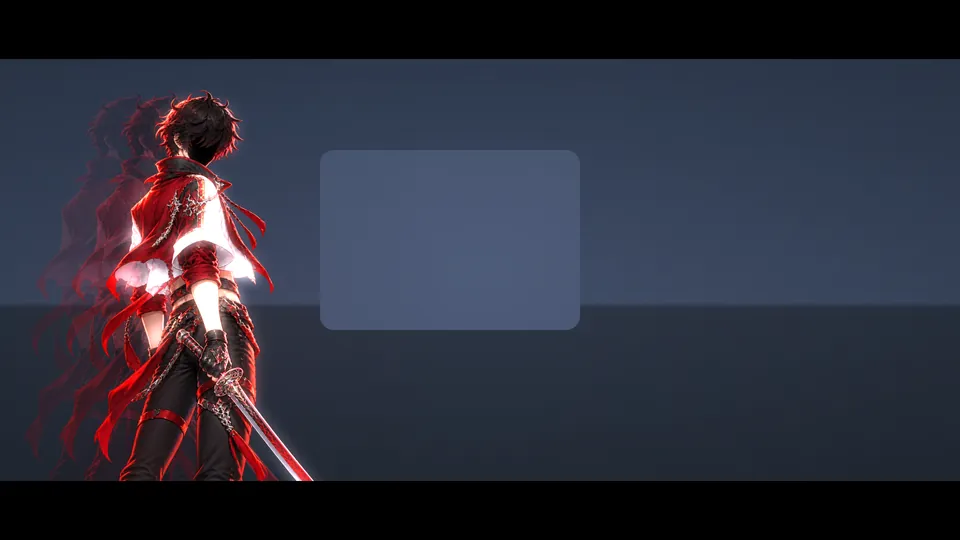
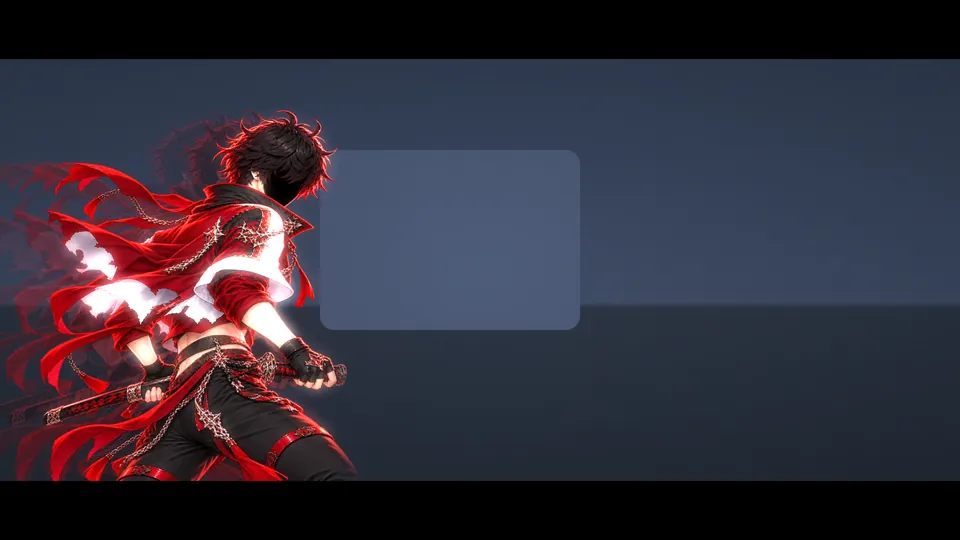
docs: fix the entry animation 30 tier's cut-in, level label and zanshin
Slide the sheathed iaido stance in for the cut-in instead of the drawn-sword
hero, label the tier LV.30, and add the zanshin flick so the blade swings down
from the raised follow-through into the closing stance. Record the lessons in
WORKFLOW.md: re-run the checklist on finished tiers, reuse another tier's fix,
check later effects against the name, and merge page-saved canvas edits.

Changed region(s): [[0.0, 0.1778, 0.375, 0.8889]]

diff --git a/docs/design/entry-animation/boards/EV1-EntrySlice.dc.html b/docs/design/entry-animation/boards/EV1-EntrySlice.dc.html
@@ -2,7 +2,7 @@
 <html lang="zh-CN">
 <head>
 <meta charset="utf-8">
-<title>EV1 进场动画样片 一般人 60 档</title>
+<title>EV1 进场动画 一般人 30 档 一闪</title>
 <script src="./support.js"></script>
 <script src="/_blob/017bad25925e8b86b270eb3a65ed7fff"></script>
 <script src="/_blob/4e96fe4a1953a4100f9922f45ab6641a"></script>
@@ -152,7 +152,7 @@ class Component extends DCLogic {
     const nameMask = new P.Graphics(); nameG.addChild(nameMask); nameT.mask = nameMask;
     const rule = new P.Graphics(); nameG.addChild(rule);
     const tag = new P.Text({ text: '粉丝团', style: { fontFamily: 'Noto Serif SC', fontWeight: '900', fontSize: 30, fill: 0xffffff, letterSpacing: 6 } });
-    const lv = new P.Text({ text: 'LV.60', style: { fontFamily: 'Barlow Condensed', fontWeight: '500', fontSize: 40, fill: 0xff5a68, letterSpacing: 6 } });
+    const lv = new P.Text({ text: 'LV.30', style: { fontFamily: 'Barlow Condensed', fontWeight: '500', fontSize: 40, fill: 0xff5a68, letterSpacing: 6 } });
     tag.position.set(34, -142); lv.position.set(150, -150); nameG.addChild(tag, lv);
     // Entry caption: says who is coming in from the cut-in, until the strike sweeps it away.
     const cap = new P.Container(); cap.position.set(600, 900); ui.addChild(cap);
@@ -160,7 +160,7 @@ class Component extends DCLogic {
     const capName = new P.Text({ text: '柚子不酸', style: { fontFamily: 'Noto Serif SC', fontWeight: '900', fontSize: 50, fill: 0xffffff, letterSpacing: 12 } });
     capName.anchor.set(0, 1); capName.position.set(30, -10); cap.addChild(capName);
     const capLv = new P.Text({ text: '粉丝团', style: { fontFamily: 'Noto Serif SC', fontWeight: '900', fontSize: 22, fill: 0xffffff, letterSpacing: 4 } });
-    const capLvN = new P.Text({ text: 'LV.60', style: { fontFamily: 'Barlow Condensed', fontWeight: '500', fontSize: 28, fill: 0xff5a68, letterSpacing: 4 } });
+    const capLvN = new P.Text({ text: 'LV.30', style: { fontFamily: 'Barlow Condensed', fontWeight: '500', fontSize: 28, fill: 0xff5a68, letterSpacing: 4 } });
     capLv.position.set(32, 12); capLvN.position.set(112, 6); cap.addChild(capLv, capLvN);
     const capMask = new P.Graphics(); cap.addChild(capMask); capName.mask = capMask;
 
@@ -179,8 +179,11 @@ class Component extends DCLogic {
     const zoom = new F.ZoomBlurFilter({ strength: 0, center: { x: H[0], y: H[1] }, innerRadius: 60 });
     const rgb = new F.RGBSplitFilter({ red: { x: 0, y: 0 }, green: { x: 0, y: 0 }, blue: { x: 0, y: 0 } });
 
+    // The zanshin flick: from the follow-through's raised tip down close to the body (left of the name) into the low
+    // blade of the closing stance.
+    const flick = pathOf(spline([H, [1100, 500], [880, 820], placed(4, 420, [780, 1120])]));
     const onScreen = p => p[0] > -60 && p[0] < 1980 && p[1] > -60 && p[1] < 1140;
-    this.S = { app, canvas, world, ui, dim, red, halves, n, tangent, H, cutLine, slash, seamPath: pathOf(Array.from({ length: 1001 }, (_, i) => [cutLine[0][0] + (cutLine[1][0] - cutLine[0][0]) * i / 1000, cutLine[0][1] + (cutLine[1][1] - cutLine[0][1]) * i / 1000]).filter(onScreen)), seamC, seamTex, rim, poses, fit, ghosts, hero, fx, fxTex, nameG, cap, capRule, capName, capLv, capLvN, capMask, nameGhosts, nameT, nameMask, rule, tag, lv, imp, impBg, impLines, silB, silW, flash, bars, bloom, shock, zoom, rgb };
+    this.S = { app, canvas, world, ui, dim, red, halves, n, tangent, H, cutLine, slash, flick, seamPath: pathOf(Array.from({ length: 1001 }, (_, i) => [cutLine[0][0] + (cutLine[1][0] - cutLine[0][0]) * i / 1000, cutLine[0][1] + (cutLine[1][1] - cutLine[0][1]) * i / 1000]).filter(onScreen)), seamC, seamTex, rim, poses, fit, ghosts, hero, fx, fxTex, nameG, cap, capRule, capName, capLv, capLvN, capMask, nameGhosts, nameT, nameMask, rule, tag, lv, imp, impBg, impLines, silB, silW, flash, bars, bloom, shock, zoom, rgb };
     app.ticker.add(() => this.frame());
   }
 
@@ -218,12 +221,12 @@ class Component extends DCLogic {
     S.red.scale.set(1 + 0.03 * k(SPLIT, 5000, l)); S.red.position.set(960 + cut.drift, 540);
     this.drawSeam(l, k, out, cut);
 
-    // Hero poses: cut-in, charge, smear, follow-through, zanshin.
-    const pose = l < 520 ? 0 : l < 1950 ? 1 : l < 2034 ? 2 : l < 2700 ? 3 : 4;
+    // Hero poses: the iaido stance (it slides in for the cut-in, sword still sheathed, and holds through the charge),
+    // the draw smear, the follow-through, zanshin.
+    const pose = l < 1950 ? 1 : l < 2034 ? 2 : l < 2700 ? 3 : 4;
     const [ph, px] = S.fit[pose], tx = S.poses[pose];
     let x = 420, y = 1080;
-    if (pose === 0) x += -980 * (1 - quint(k(250, 520, l)));
-    if (pose === 1) { y += 20 * (1 - out(k(520, 660, l))); x += 16 * k(660, 1950, on2(l)); }
+    if (pose === 1) { x += -980 * (1 - quint(k(250, 520, l))) + 16 * k(660, 1950, on2(l)); y += 20 * (1 - out(k(520, 660, l))); }
     if (pose === 2) x += 30;
     if (pose === 3) x += 48 - 10 * out(k(2034, 2500, l));
     if (pose === 4) x += 20 * k(2700, 6000, on2(l));
@@ -235,7 +238,7 @@ class Component extends DCLogic {
     S.ghosts.forEach((g, i) => {
       const on = (l >= 250 && l < 520) || (l >= 1950 && l < 2120);
       g.texture = tx; g.height = ph; g.scale.x = g.scale.y;
-      g.position.set(S.hero.x - (i + 1) * (pose === 0 ? 70 : 34), y);
+      g.position.set(S.hero.x - (i + 1) * (l < 520 ? 70 : 34), y);
       g.alpha = on ? (i ? 0.16 : 0.32) : 0; g.tint = 0xff6070;
     });
     S.rim.position.set(420, 640);
@@ -325,12 +328,12 @@ class Component extends DCLogic {
     g.globalCompositeOperation = 'lighter';
     const rnd = (i, s) => { const x = Math.sin(i * 127.1 + s * 311.7) * 43758.5453; return x - Math.floor(x); };
     const Q = u => S.slash.at(u).slice(0, 2), D = u => S.slash.at(u).slice(2, 4);
-    const band = (u0, u1, w, inner, rgb, alpha) => {
+    const band = (u0, u1, w, inner, rgb, alpha, P = S.slash) => {
       if (u1 - u0 < 0.002) return;
       const N = 70;
       let prev = null;
       for (let i = 0; i <= N; i++) {
-        const f = i / N, u = u0 + (u1 - u0) * f, p = Q(u), nm = D(u);
+        const f = i / N, u = u0 + (u1 - u0) * f, r = P.at(u), p = r, nm = [r[2], r[3]];
         const ww = w * Math.pow(Math.sin(Math.PI * Math.min(1, f * 1.08)), 0.5) * (0.25 + 0.75 * f);
         const o = [p[0] - nm[0] * ww, p[1] - nm[1] * ww], q = [p[0] + nm[0] * ww * inner, p[1] + nm[1] * ww * inner];
         if (prev) {
@@ -388,7 +391,15 @@ class Component extends DCLogic {
         }
       }
     }
-    // The zanshin flick: a short glint on the blade right before the sky gives way.
+    // The zanshin flick: the blade swings down from the raised follow-through into the closing stance, leaving a thin
+    // crescent that fades at once.
+    if (l >= 2700 && l < 2960) {
+      const head = out(k(2700, 2760, l)), tail = out(k(2720, 2860, l)), a = 0.7 * (1 - k(2780, 2960, l));
+      band(tail, head, 26 * 2.6, 0.25, '255,30,60', 0.16 * a, S.flick);
+      band(tail, head, 26, 0.08, '255,58,80', 0.8 * a, S.flick);
+      band(tail, head, 26 * 0.34, 0.03, '255,240,240', a, S.flick);
+    }
+    // Then a short glint on the blade right before the sky gives way.
     const fl = k(2930, 3130, l);
     if (fl > 0 && fl < 1) {
       const a = Math.sin(fl * Math.PI), [gx, gy] = [612, 922];

diff --git a/docs/design/entry-animation/README.md b/docs/design/entry-animation/README.md
@@ -4,7 +4,7 @@
 
 画板画在设计稿画布上（画布是私有的，实现时以本目录为准）。规格：[#267 进场动画](https://github.com/cyaoc/aether/issues/267)、[#268 隐藏款](https://github.com/cyaoc/aether/issues/268)。已定稿：
 
-- **EV1 一般人 30 档「一闪」**（2026-10-25 做出，10-26 定为 30 档基准，同日换成新的拔刀拖影、直线刀痕）。
+- **EV1 一般人 30 档「一闪」**（2026-10-25 做出，10-26 定为 30 档基准，同日换成新的拔刀拖影、直线刀痕，切入改成居合架势、加上残心甩刀）。
 - **EV2 一般人 40 档「三连斩」**（2026-10-26，按动作链做：横、斜、回身三刀，三条直线刀痕）。
 
 50、60 档，舰长、提督、总督以及隐藏款都还没出画板。
@@ -31,7 +31,7 @@ node docs/design/entry-animation/tools/server.mjs 8795
 
 | 文件 | 内容 | 用在 |
 |---|---|---|
-| `hero-1` | 一般人亮相（刀已出鞘） | EV1 切入 |
+| `hero-1` | 一般人亮相（刀已出鞘） | 各姿势生图的参考，画板里不用 |
 | `hero-2/3/4` | 舰长、提督、总督亮相 | 待用 |
 | `gold-sword` | 总督身后的金剑 | 待用 |
 | `pose-2` | 居合架势（刀在鞘里，按刀） | EV1、EV2 蓄力 |
@@ -57,7 +57,7 @@ node docs/design/entry-animation/tools/server.mjs 8795
 | 毫秒 | 拍 | 画面 |
 |---|---|---|
 | 0–300 | 压暗 | 上下黑边合进来（高 118），直播画面压暗（径向暗角） |
-| 250–520 | 切入 | 亮相姿势带两道红色残影从左边冲进来 |
+| 250–520 | 切入 | 居合架势（刀在鞘里）带两道红色残影从左边冲进来，落地压低 |
 | 420–2060 | 登场字幕 | 主角脚边 (600, 900) 拉出细线和红色小方块，昵称（50 px）从左往右显出，下面是「粉丝团 LV.xx」；出招时被刀风扫掉 |
 | 520–1950 | 蓄力 | 居合架势；月夜 600–1250 淡入；光点往刀柄 (660, 735) 收；镜头 1 → 1.07 推近、轻微倾斜；1780–1940 刀柄十字闪光 |
 | 1950–2034 | 出招 | 拔刀拖影两帧，刀光沿画出的拖影扫过；镜头猛推到 1.12，小震 |
@@ -67,7 +67,7 @@ node docs/design/entry-animation/tools/server.mjs 8795
 | 2080–2200 | 顿帧 | 画面停住，刀光停在最亮的样子 |
 | 2200 起 | 余波 | 冲击波、放射模糊、色散；大震屏；火花沿刀光两侧甩出；刀光碎成丝。天空保持完整，一道直线刀痕悬在空中发光（在主角身后） |
 | 2380–2950 | 亮名 | 昵称从左往右切出来，带两层红色残影；细线和红色小方块拉出；「粉丝团 LV.xx」淡入 |
-| 2700 起 | 残心 | 收刀站姿；余烬飘起；镜头缓缓推到 1.025；2930–3130 刀身一闪（甩刀） |
+| 2700 起 | 残心 | 刀从右上方甩下来，贴着身体留一小段细刀光（2700–2960，从昵称左边经过），落到收刀站姿；余烬飘起；镜头缓缓推到 1.025；2930–3130 刀身一闪 |
 | 3000–3950 | 斩铁 | 天空沿直线刀痕裂开：有月亮的那块顺着切面往上滑走 250、抬起 16、转 0.035 弧度，另一块反向移 80；切口各带一道发光的边，余烬从两边剥落；3300–3950 两块化开 |
 | 3000–5000 | 里世界 | 后面是同一片天空的血月版本，3950 完整显现，停一拍，4400–5000 退回直播画面；期间慢慢放大 3% |
 | 6180–6600 | 收 | 主角、昵称、暗角淡出，黑边退开 |
@@ -76,8 +76,7 @@ node docs/design/entry-animation/tools/server.mjs 8795
 
 | 姿势 | 显示高度 | 躯干在图宽的位置 | x |
 |---|---|---|---|
-| hero-1 亮相 | 900 | 0.45 | 420 |
-| pose-2 居合架势 | 880 | 0.52 | 420，慢慢右移 16 |
+| pose-2 居合架势 | 880 | 0.52 | 420：切入时从左边冲进来，之后慢慢右移 16 |
 | pose-13 拔刀拖影 | 820 | 0.3244 | 450 |
 | pose-14 拔刀收招 | 820 | 0.3358 | 468，慢慢回 10 |
 | pose-5 残心 | 900 | 0.42 | 420，慢慢右移 20 |

diff --git a/docs/design/entry-animation/WORKFLOW.md b/docs/design/entry-animation/WORKFLOW.md
@@ -44,6 +44,8 @@
 - 每拍按毫秒截图，拼成对照表自己先看。刀光像激光、刀光扫过月亮、昵称压线、多出来的亮边，这些都是这样在用户看到前改掉的。
 - 生图结果先在灰底上看透明通道。codex 常回报“背景没有透明”，以实际 alpha 为准。
 - 改了规则，同时写进 prompts.md、DESIGN 和记忆。
+- 做完一档或改了规则，用第六节的清单把已定稿的档也过一遍。2026-10-26 就是这样查出 30 档残心前刀从举起处直接跳到垂下（用户没提过），补上了甩刀的细刀光。
+- 另一档已经解决过的同类问题，直接照搬它的做法，各档才一致：30 档的切入（居合架势滑入）和残心甩刀都照搬 40 档。
 
 ## 四、这次返工的根因
 
@@ -133,7 +135,7 @@
 **画面**
 
 - [ ] 刀尖、命中点、昵称和它上面的标签都不进上下黑边；膝盖切边不露出来。
-- [ ] 昵称和标签不压亮线（可以压已经变暗的细线）。
+- [ ] 昵称和标签不压亮线：刀光、甩刀的细刀光、刀痕都算（可以压已经变暗的细线）。后加的特效也要再查一次。
 - [ ] 冲击帧一次最多两帧，全屏闪光一秒内不超过 3 次。
 
 **打击感和节奏**（依据见 DESIGN 第八节、调查记录第一到三节）
@@ -157,6 +159,7 @@
 - `cdp-shot.mjs` 一次只截一张；几个 Chrome 同时跑会钉不住时钟。
 - 改了 `tools/blobs.json` 要重启 `server.mjs`，它只在启动时读一次。
 - 画布发布被拒、提示“没看过最新版本”时，用 Artifact 的 read（不带 path）读一次画布再发。
+- 提示文件在页面上被改过时（打开画布，编辑器会自动规范化便签宽度等），读线上的 `canvas.json`，和自己的副本比对，只把自己改的键套到线上版本上再发，页面上的改动原样保留。
 - 画板的特效画布四周要留边（EV2 是左右 300、上下 400），镜头一甩就会露出画布外的区域。
 - 胯对齐的姿势图底边渐隐 120 px，镜头往下甩时看不到膝盖切边。
 - 镜头只在缩放为 1 的那一刻换轴心，否则画面会跳。
@@ -165,6 +168,4 @@
 
 下个会话开工时先处理，或先问用户：
 
-- 30 档切入用的亮相图 `hero-1` 刀已出鞘，下一拍居合架势刀又在鞘里，动作不连贯。这次只提过，没改。
-- 30 档画面里的等级还写着 LV.60。
 - 50 档要重新描述动作链再生图；上次后台生成的 5 张已作废。
